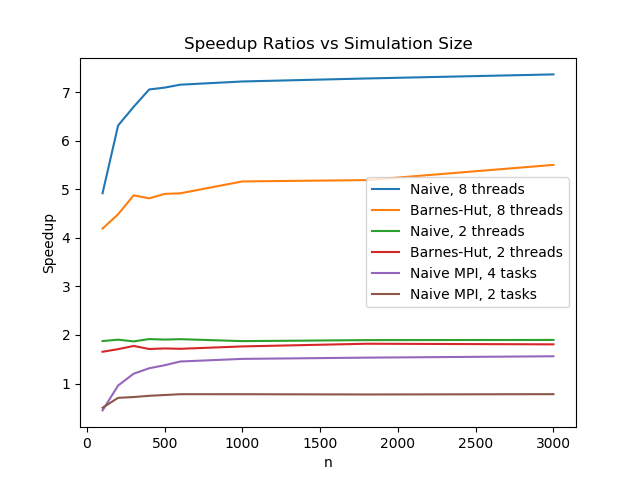
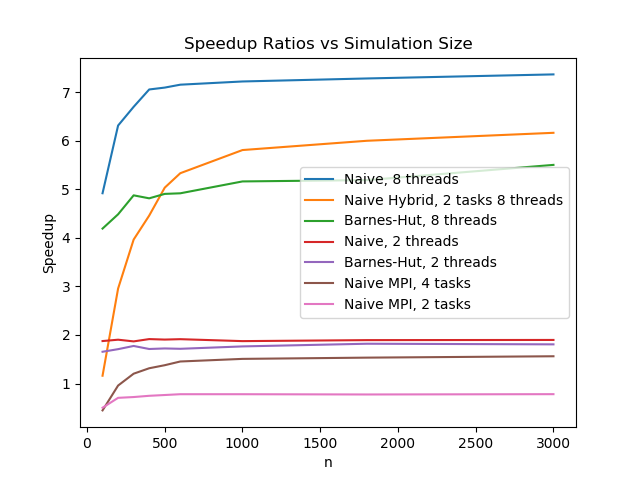
updated plots

diff --git a/plots/plots.py b/plots/plots.py
@@ -1,104 +1,108 @@
 import numpy as np
 import matplotlib.pyplot as plt
 
-
-threads = [1,2,3,4,5,6,7,8]
-
-naive_200 = [1,
-1.902418316,
-2.770583215,
-3.593385291,
-4.363267402,
-5.320462219,
-6.086717785,
-6.314405632]
-
-bh_200 = [1,
-1.707503158,
-2.29308753,
-2.800334601,
-3.333483046,
-3.800381114,
-4.202925353,
-4.485626752]
-
-mpi_cores = [1,2,4,8]
-
-naivempi_200 = [1,
-0.7047452799,
-0.9579013633,
-0.7579784841]
-
-
-
-naivempi_600 = [1,
-0.7794331933,
-1.453401496,
-2.306866548]
-
-naive_600 = [1,
-1.913102955,
-2.786122694,
-3.713057601,
-4.608205028,
-5.506942101,
-6.390209825,
-7.155778284]
-
-bh_600 = [0.9999999998,
-1.714829618,
-2.358118033,
-2.985696396,
-3.517673651,
-4.077462303,
-4.530600021,
-4.918268292]
-
-plt.plot(threads, naive_600, label='Naive, n=600')
-plt.plot(threads, naive_200, label='Naive, n=200')
-plt.plot(threads, bh_600, label='Barnes-Hut, n=600')
-plt.plot(threads, bh_200, label='Barnes-Hut, n=200')
-plt.plot(mpi_cores, naivempi_600, label='Naive MPI, n=600')
-
-plt.plot(mpi_cores, naivempi_200, label='Naive MPI, n=200')
-
-plt.legend()
-plt.title('Speedup Ratios vs Threads/Tasks')
-plt.xlabel('Parallel threads/tasks')
-plt.ylabel('Speedup')
-plt.savefig('speedup_vs_threads.png')
-plt.show()
+#
+# threads = [1,2,3,4,5,6,7,8]
+#
+# naive_200 = [1,
+# 1.902418316,
+# 2.770583215,
+# 3.593385291,
+# 4.363267402,
+# 5.320462219,
+# 6.086717785,
+# 6.314405632]
+#
+# bh_200 = [1,
+# 1.707503158,
+# 2.29308753,
+# 2.800334601,
+# 3.333483046,
+# 3.800381114,
+# 4.202925353,
+# 4.485626752]
+#
+# mpi_cores = [1,2,4,8]
+#
+# naivempi_200 = [1,
+# 0.7047452799,
+# 0.9579013633,
+# 0.7579784841]
 #
 #
 #
+# naivempi_600 = [1,
+# 0.7794331933,
+# 1.453401496,
+# 2.306866548]
 #
+# naive_600 = [1,
+# 1.913102955,
+# 2.786122694,
+# 3.713057601,
+# 4.608205028,
+# 5.506942101,
+# 6.390209825,
+# 7.155778284]
 #
+# bh_600 = [0.9999999998,
+# 1.714829618,
+# 2.358118033,
+# 2.985696396,
+# 3.517673651,
+# 4.077462303,
+# 4.530600021,
+# 4.918268292]
 #
+# plt.plot(threads, naive_600, label='Naive, n=600')
+# plt.plot(threads, naive_200, label='Naive, n=200')
+# plt.plot(threads, bh_600, label='Barnes-Hut, n=600')
+# plt.plot(threads, bh_200, label='Barnes-Hut, n=200')
+# plt.plot(mpi_cores, naivempi_600, label='Naive MPI, n=600')
 #
-# n = [100	,200	,300,	400	,500,	600	,1000,	1800,	3000]
+# plt.plot(mpi_cores, naivempi_200, label='Naive MPI, n=200')
 #
-# bh_2 = [1.653943368,	1.707503158,	1.77340194,	1.710811489,	1.722160122	,1.714829618,	1.764083443	,1.819176349	,1.806516695]
-# bh_8 = [4.191688569,	4.485626752	,4.876284492,	4.814725046,	4.906051619,	4.918268293	,5.162892289,	5.190037806	,5.503589186]
-#
-# naive_2 = [1.874402792,	1.902418316,	1.867352024,	1.914925152	,1.90491911,	1.913102955,	1.87307007,	1.893697435	,1.897263513]
-# naive_8 = [4.919397634,	6.314405632,	6.69967005,	7.057145579	,7.096011869,	7.155778284,	7.222033439,	7.283994136,	7.367682087]
-#
-# naive_mpi_2 = [0.5008829472	,0.7047452799,	0.7210326318,	0.7466389801,	0.7627926968,	0.7794331933,	0.7792739631,	0.7739602591,	0.7803132518]
-#
-# naive_mpi_4 = [0.4458779638,	0.9579013633,	1.20204626,	1.314059206,	1.376933097	,1.453401496,	1.507227445,	1.532864069	,1.561133551]
-#
-# plt.plot(n, naive_8, label='Naive, 8 threads')
-# plt.plot(n, bh_8, label='Barnes-Hut, 8 threads')
-# plt.plot(n, naive_2, label='Naive, 2 threads')
-# plt.plot(n, bh_2, label='Barnes-Hut, 2 threads')
-# plt.plot(n, naive_mpi_4, label='Naive MPI, 4 tasks')
-# plt.plot(n, naive_mpi_2, label='Naive MPI, 2 tasks')
 # plt.legend()
-# plt.xlabel('n')
+# plt.title('Speedup Ratios vs Threads/Tasks')
+# plt.xlabel('Parallel threads/tasks')
 # plt.ylabel('Speedup')
-# plt.title('Speedup Ratios vs Simulation Size')
-# plt.savefig('speedup_vs_n.png')
+# plt.savefig('speedup_vs_threads.png')
 # plt.show()
+#
+#
+#
+#
+#
+#
+#
+n = [100	,200	,300,	400	,500,	600	,1000,	1800,	3000]
+
+hybrid = [1.160155684,	2.95571782,	3.964797454,	4.459140537	,5.034549445,	5.332119097	,5.809260155,	6.000282181,	6.164402128]
+
+bh_2 = [1.653943368,	1.707503158,	1.77340194,	1.710811489,	1.722160122	,1.714829618,	1.764083443	,1.819176349	,1.806516695]
+bh_8 = [4.191688569,	4.485626752	,4.876284492,	4.814725046,	4.906051619,	4.918268293	,5.162892289,	5.190037806	,5.503589186]
+
+naive_2 = [1.874402792,	1.902418316,	1.867352024,	1.914925152	,1.90491911,	1.913102955,	1.87307007,	1.893697435	,1.897263513]
+naive_8 = [4.919397634,	6.314405632,	6.69967005,	7.057145579	,7.096011869,	7.155778284,	7.222033439,	7.283994136,	7.367682087]
+
+naive_mpi_2 = [0.5008829472	,0.7047452799,	0.7210326318,	0.7466389801,	0.7627926968,	0.7794331933,	0.7792739631,	0.7739602591,	0.7803132518]
+
+naive_mpi_4 = [0.4458779638,	0.9579013633,	1.20204626,	1.314059206,	1.376933097	,1.453401496,	1.507227445,	1.532864069	,1.561133551]
+
+
+plt.plot(n, naive_8, label='Naive, 8 threads')
+plt.plot(n, hybrid, label='Naive Hybrid, 2 tasks 8 threads')
+plt.plot(n, bh_8, label='Barnes-Hut, 8 threads')
+plt.plot(n, naive_2, label='Naive, 2 threads')
+plt.plot(n, bh_2, label='Barnes-Hut, 2 threads')
+plt.plot(n, naive_mpi_4, label='Naive MPI, 4 tasks')
+plt.plot(n, naive_mpi_2, label='Naive MPI, 2 tasks')
+plt.legend()
+plt.xlabel('n')
+plt.ylabel('Speedup')
+plt.title('Speedup Ratios vs Simulation Size')
+plt.savefig('speedup_vs_n.png')
+plt.show()
 
 
 
@@ -121,49 +125,52 @@ plt.show()
 
 #
 #
-# n_b =[ 100,
-# 	200,
-#     	300	,
-#         400	,
-#         500	,
-#         600,
-#         	1000
-# ,            	1800
-# ,                3000
-# ,                	4000]
-#
-# t_b = [1.6809258,	4.468020667,	8.056646,	11.545364,	15.64071333,	19.80075633	,38.669263,	84.460101,	155.81142,	226.409964]
-#
-# n_n =[ 100,
-# 	200,
-#     	300	,
-#         400	,
-#         500	,
-#         600,
-#         	1000
-# ,            	1800
-# ,                3000]
-# t_n =[0.480207,	1.996413,	4.286402,	7.705542,	12.110508,	17.622435,	48.121326,	154.50399,	433.893076]
-#
-# naive_8 = [0.097615,	0.316168,	0.639793,	1.091878,	1.706664,	2.462686,	6.663127,	21.211438,	58.891395]
-#
-# naive_mpi_4 = [1.076992,	2.084153,	3.565921,	5.863923,	8.795277,	12.12496,	31.92705,	100.794319,	277.93463]
-#
-# bh_8 = [0.401014,	0.996075,	1.65221,	2.397928,	3.188045,	4.025961	,7.489845	,16.273504,	28.310874	,40.628309]
-#
-#
-# plt.plot(n_n, t_n, label='Naive, 1 thread')
-# plt.plot(n_n, naive_mpi_4, label='Naive MPI, 4 tasks')
-# plt.plot(n_b, t_b, label='Barnes-Hut, 1 thread')
-# plt.plot(n_n, naive_8, label='Naive, 8 threads')
-# plt.plot(n_b, bh_8, label='Barnes-Hut, 8 threads')
-#
-# plt.title('Comparing Naive and Barnes-Hut Complexities')
-# plt.xlabel('Simulation size')
-# plt.ylabel('Runtime')
-# plt.legend()
-# plt.savefig('barnes_hut_naive_comparison.png')
-# plt.show()
+n_b =[ 100,
+	200,
+    	300	,
+        400	,
+        500	,
+        600,
+        	1000
+,            	1800
+,                3000
+,                	4000]
+
+t_b = [1.6809258,	4.468020667,	8.056646,	11.545364,	15.64071333,	19.80075633	,38.669263,	84.460101,	155.81142,	226.409964]
+
+n_n =[ 100,
+	200,
+    	300	,
+        400	,
+        500	,
+        600,
+        	1000
+,            	1800
+,                3000]
+t_n =[0.480207,	1.996413,	4.286402,	7.705542,	12.110508,	17.622435,	48.121326,	154.50399,	433.893076]
+
+naive_8 = [0.097615,	0.316168,	0.639793,	1.091878,	1.706664,	2.462686,	6.663127,	21.211438,	58.891395]
+
+naive_mpi_4 = [1.076992,	2.084153,	3.565921,	5.863923,	8.795277,	12.12496,	31.92705,	100.794319,	277.93463]
+
+bh_8 = [0.401014,	0.996075,	1.65221,	2.397928,	3.188045,	4.025961	,7.489845	,16.273504,	28.310874	,40.628309]
+
+hybrid = [0.413916,	0.675441,	1.081115,	1.728033,	2.40548,	3.304959,	8.283555,	25.749454,	70.386887]
+
+
+plt.plot(n_n, t_n, label='Naive, 1 thread')
+plt.plot(n_n, naive_mpi_4, label='Naive MPI, 4 tasks')
+plt.plot(n_b, t_b, label='Barnes-Hut, 1 thread')
+plt.plot(n_n, hybrid, label='Naive Hybrid, 2 tasks 8 threads')
+plt.plot(n_n, naive_8, label='Naive, 8 threads')
+plt.plot(n_b, bh_8, label='Barnes-Hut, 8 threads')
+
+plt.title('Comparing Naive and Barnes-Hut Complexities')
+plt.xlabel('Simulation size')
+plt.ylabel('Runtime')
+plt.legend()
+plt.savefig('barnes_hut_naive_comparison.png')
+plt.show()
 
 
 
